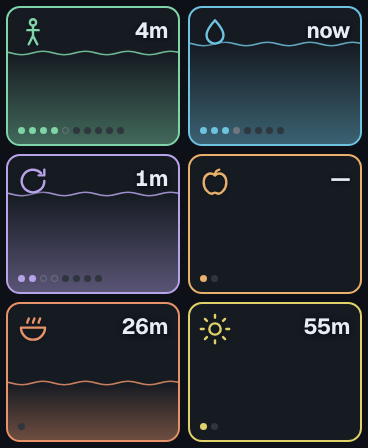
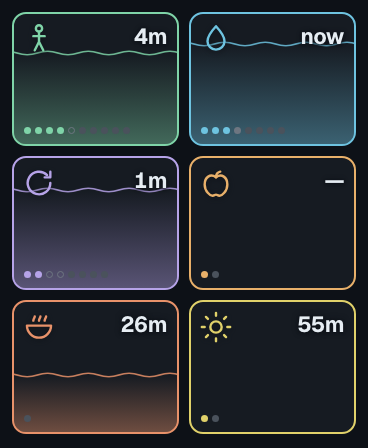
Regenerate the standalone prototype
It had drifted: the design sources gained 12px padding, 10px gutters,
lifted dot contrast and lost the Shut down tile, but the standalone copy
with the inlined fonts was never rebuilt, so the file being opened was
several changes behind the one being edited.

Generating it is one command and forgetting it is invisible, which is a bad
combination. Worth folding into a make target next to gen-config and
gen-icons rather than leaving it as something to remember.

Changed region(s): [[0.0, 0.0, 0.9864, 1.0], [0.6875, 0.0938, 0.7174, 0.125]]

diff --git a/design/prototype-standalone.html b/design/prototype-standalone.html
@@ -17,7 +17,7 @@
 
   :root {
     --bg:#0d1117; --tile:#161b22; --text:#e6edf3; --muted:#8b949e;
-    --pending:#30363d; --grey:#6e7681;
+    --pending:#4a525c; --grey:#6e7681;
   }
   * { margin:0; padding:0; box-sizing:border-box; -webkit-tap-highlight-color:transparent }
   html, body {
@@ -32,7 +32,7 @@
   .screen.on { opacity:1; pointer-events:auto }
 
   /* ---------------------------------------------------------------- grid */
-  .grid { display:grid; grid-template-columns:1fr 1fr; grid-auto-rows:140px; gap:8px; padding:6px }
+  .grid { display:grid; grid-template-columns:1fr 1fr; grid-auto-rows:134px; gap:10px; padding:12px }
   .tile {
     position:relative; background:var(--tile); border:2px solid var(--tint);
     border-radius:14px; overflow:hidden; padding:8px; cursor:pointer;
